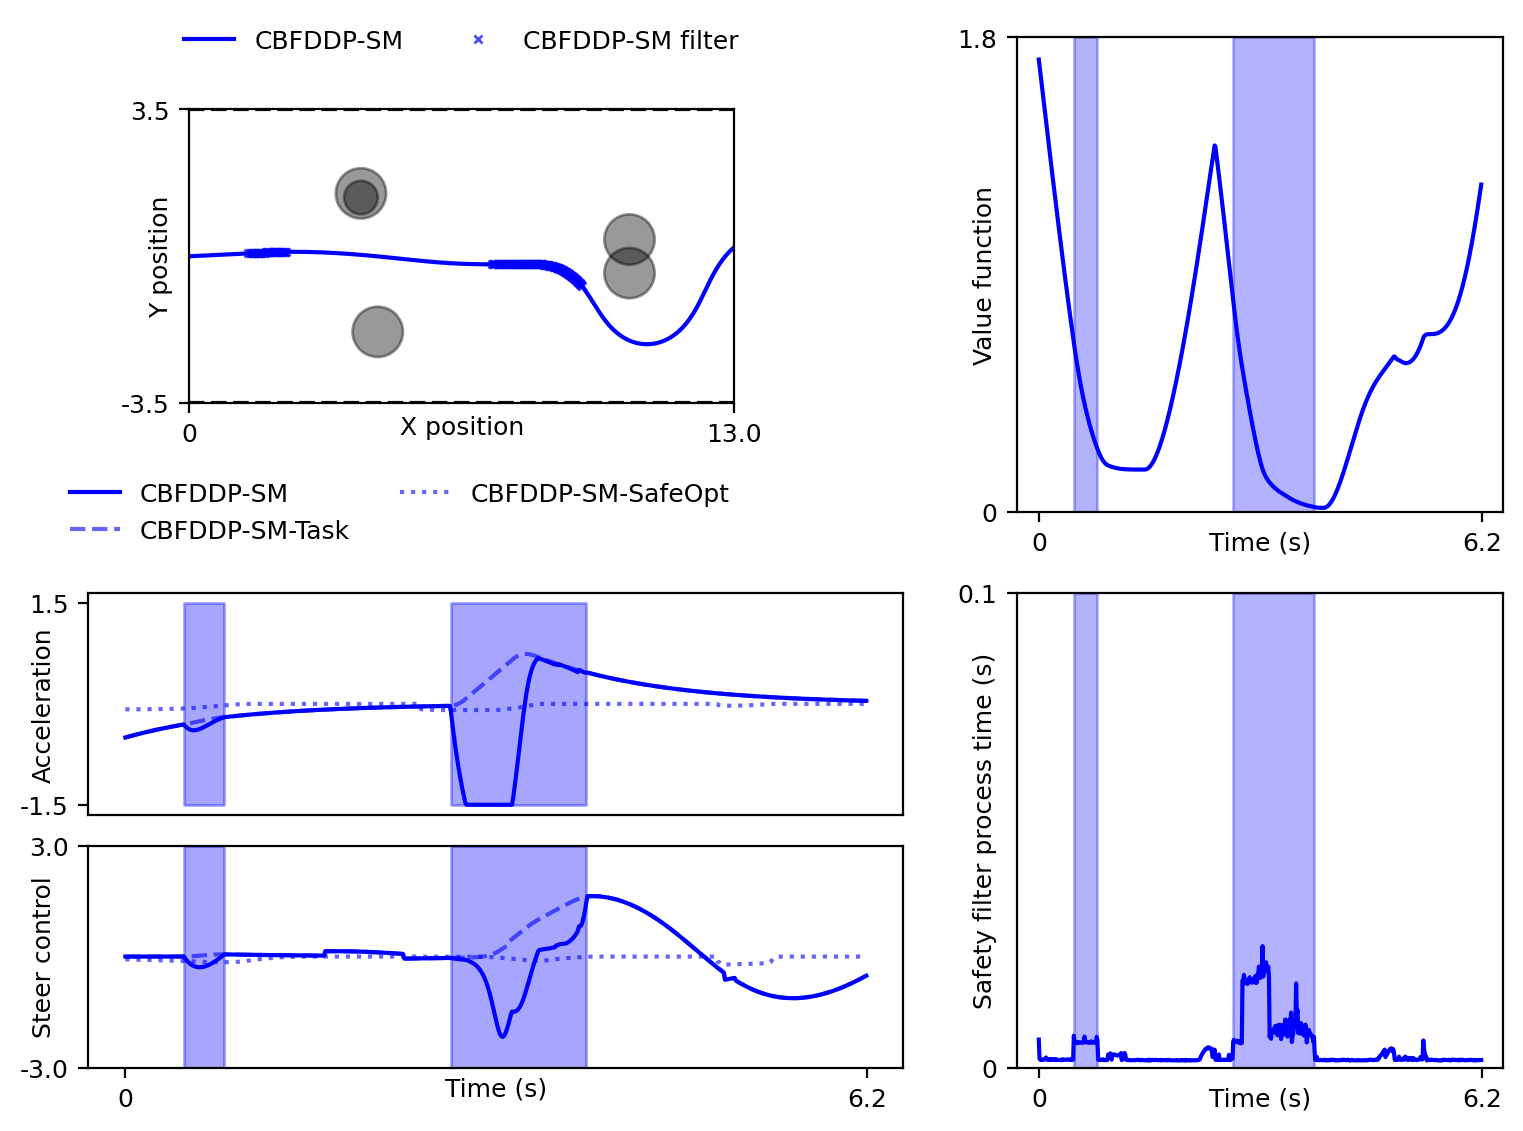
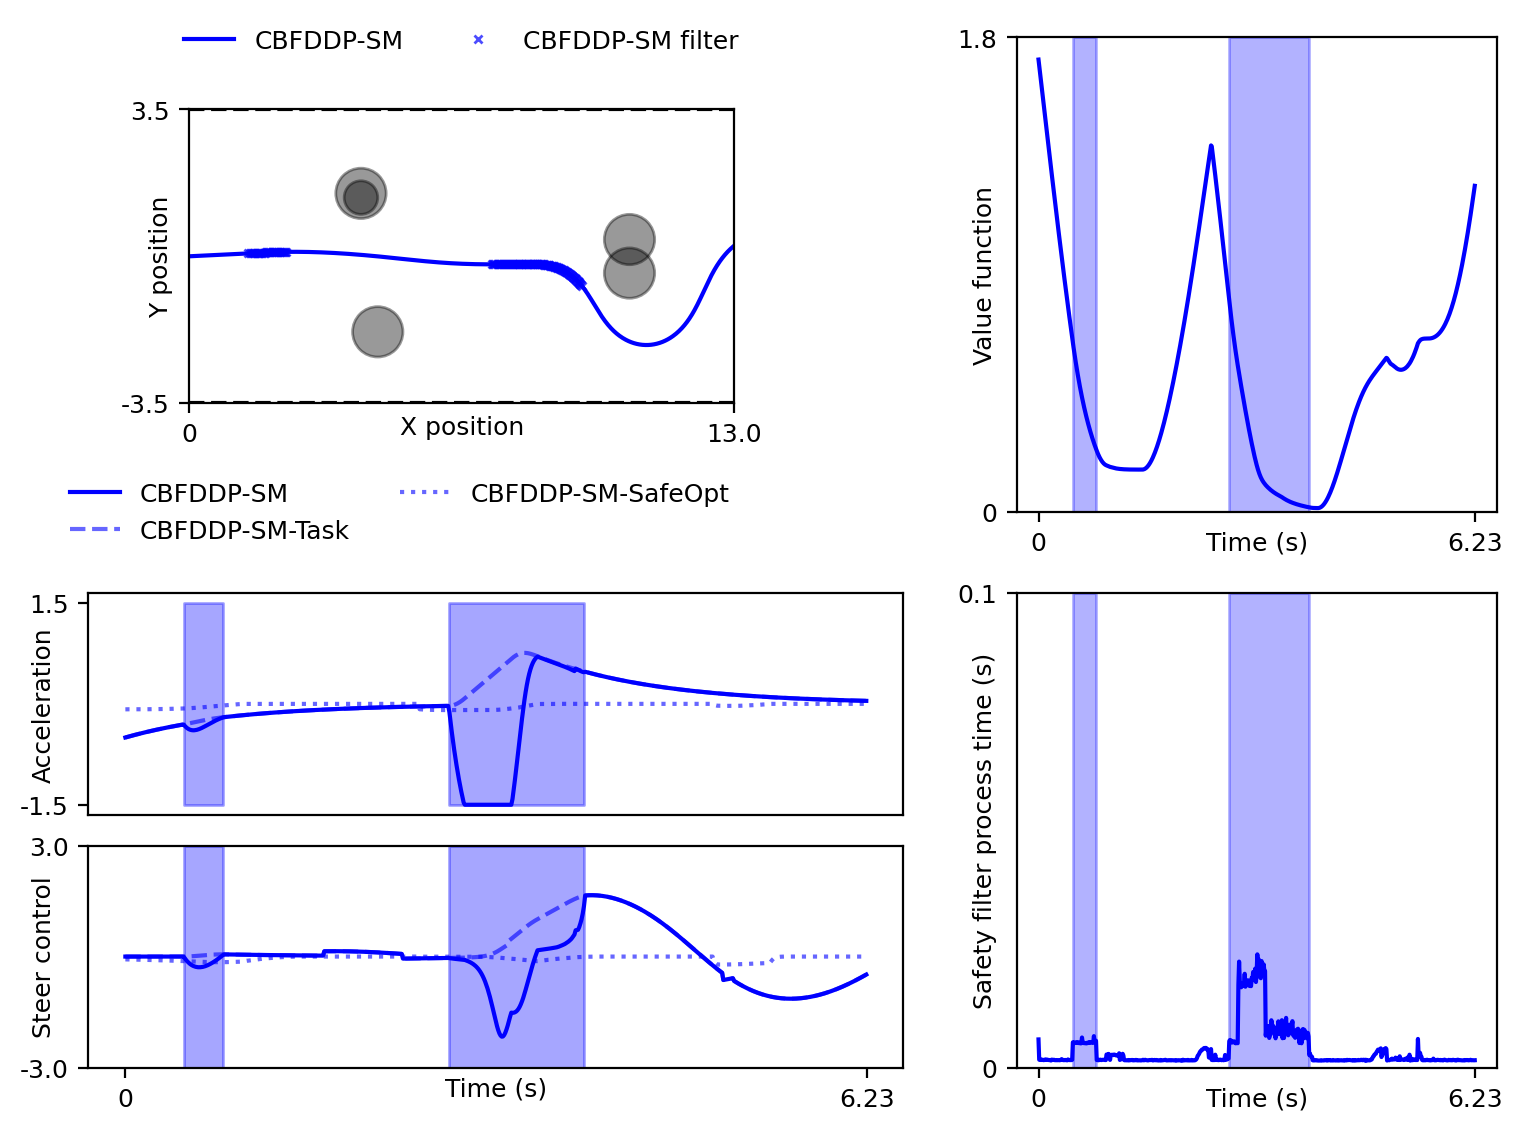
Delta clip (#21)
* ellipse cost function

* dont use bias term for linear solver

* correct cost margin with no approximation

* add to test script

* update comments

* update report

* constrain delta further for realistic value

* modified plots

diff --git a/simulators/dynamics/bicycle4d.py b/simulators/dynamics/bicycle4d.py
@@ -25,8 +25,6 @@ class Bicycle4D(BaseDynamics):
 
         # load parameters
         self.wheelbase: float = config.WHEELBASE  # vehicle chassis length
-        self.delta_min = config.DELTA_MIN
-        self.delta_max = config.DELTA_MAX
         self.v_min = 0
         self.v_max = config.V_MAX
 
